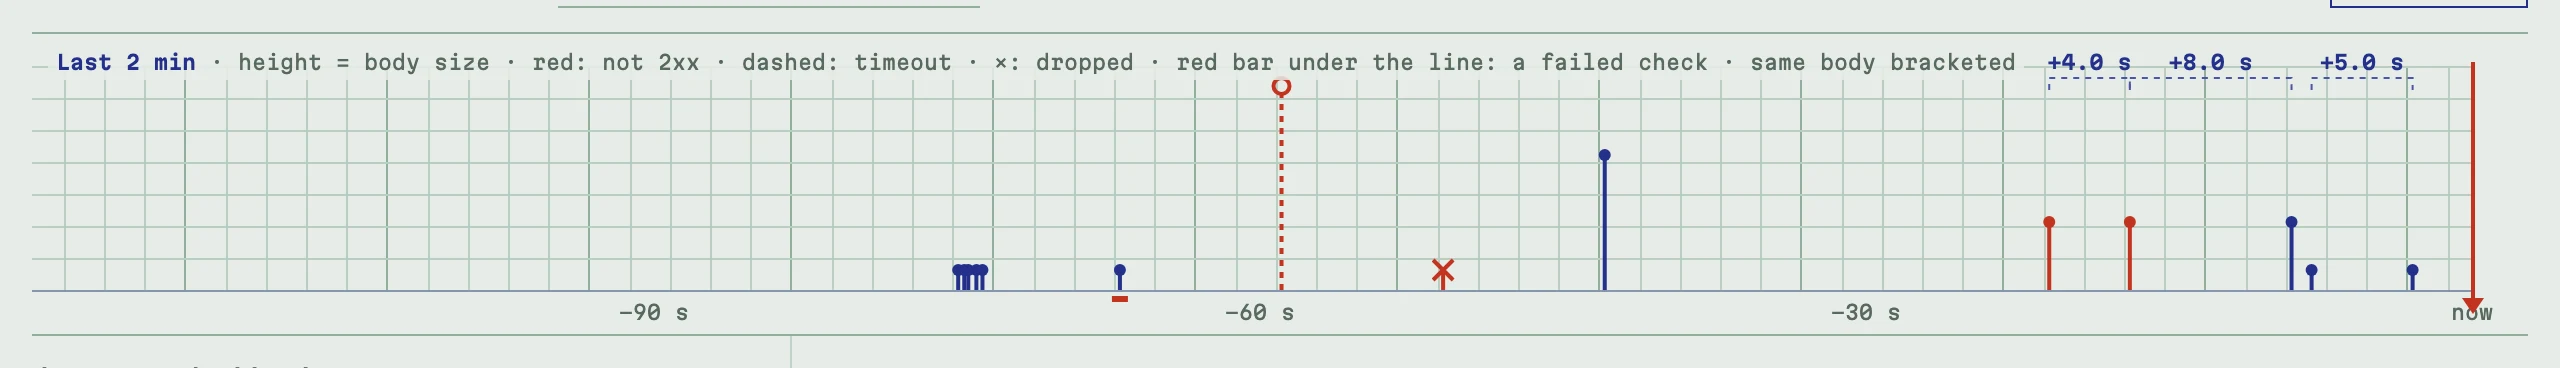
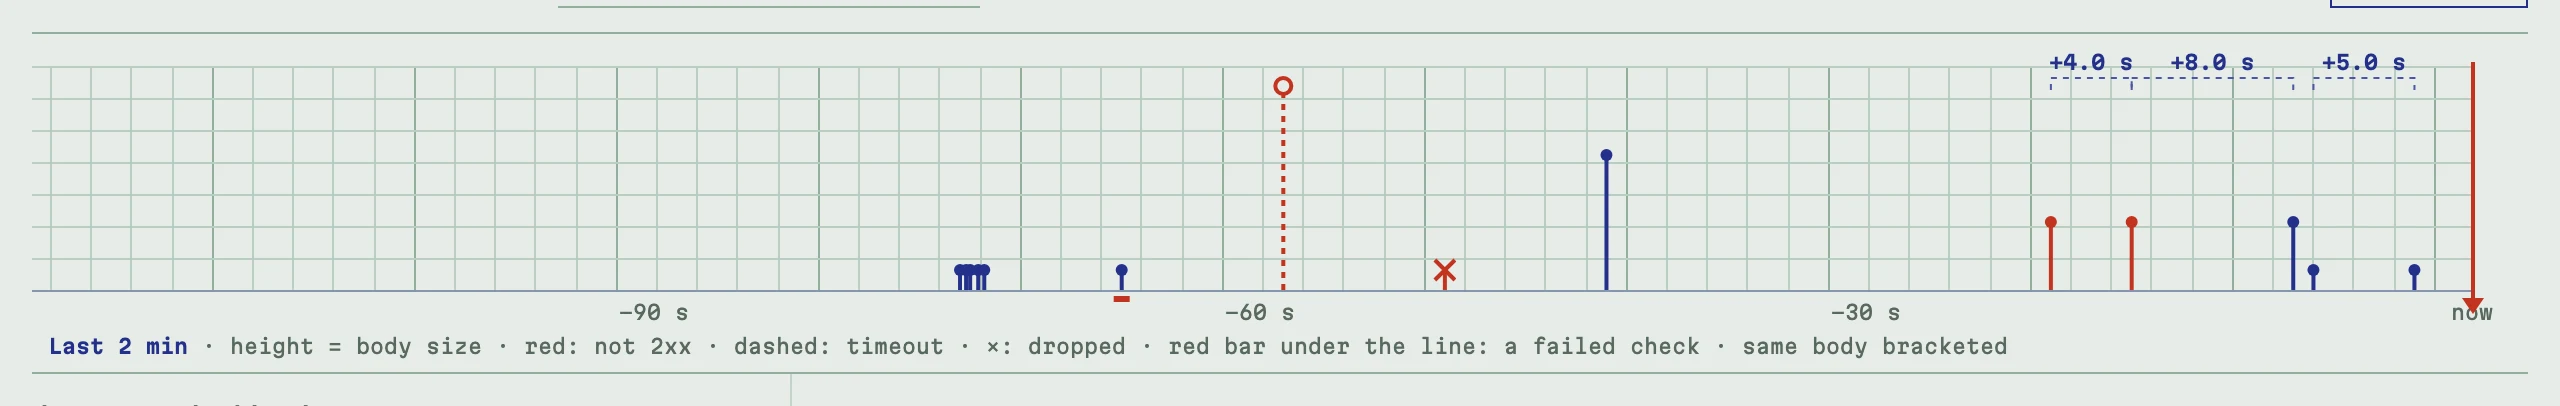
fix(web): the strip's legend goes under the time axis
The legend sat over the top of the paper, where the brackets between
deliveries of the same body and their gap labels are drawn, and hid every
bracket more than about 20 s from the pen. It now follows the canvas, under
the time axis, and the paper stays clear. The strip shot and the social
preview are regenerated.

diff --git a/internal/web/static/app.css b/internal/web/static/app.css
@@ -107,7 +107,7 @@ code{font:400 .9em/1 var(--f-data)}
 /* the strip */
 .strip{position:relative;border-block:1px solid var(--grid-major);background:var(--paper)}
 .strip canvas{display:block;width:100%;height:150px}
-.strip .legend{position:absolute;left:8px;top:6px;font:400 10px/1.3 var(--f-data);color:var(--muted);background:color-mix(in srgb,var(--paper) 85%,transparent);padding:2px 4px}
+.strip .legend{font:400 10px/1.3 var(--f-data);color:var(--muted);padding:0 8px 6px}
 .strip .legend b{color:var(--ink);font-weight:600}
 
 /* register and exhibit */
